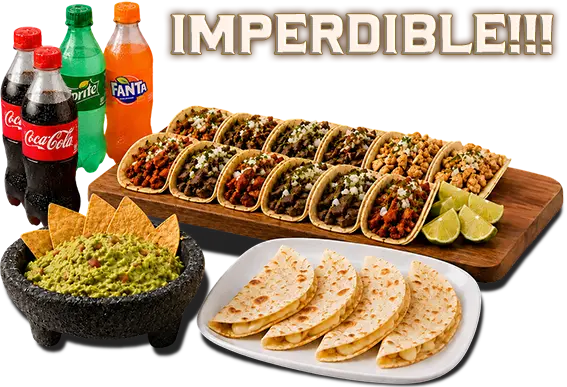
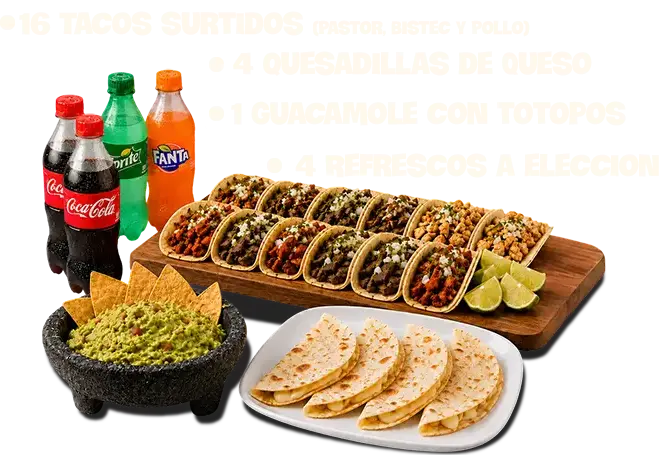
init commit

diff --git a/css/styles.css b/css/styles.css
@@ -68,26 +68,6 @@ body {
     flex-shrink: 0;
     object-fit: contain;
     filter: drop-shadow(0 2px 4px rgba(0, 0, 0, 0.3));
-    animation: logo 2000ms ease infinite;
-    will-change: transform;
-}
-
-@keyframes logo {
-    10% {
-        transform: scale(1.05) rotate(5deg);
-    }
-
-    20% {
-        transform: scale(1.05) rotate(-5deg);
-    }
-
-    30% {
-        transform: scale(1.05) rotate(5deg);
-    }
-
-    40% {
-        transform: none;
-    }
 }
 
 .header__info {
@@ -350,7 +330,7 @@ body {
 }
 
 .menu__titulo {
-    font-size: 0.82rem;
+    font-size: 0.9rem;
     font-weight: 800;
     color: #e8e8e8;
     white-space: nowrap;

diff --git a/js/script.js b/js/script.js
@@ -1,5 +1,5 @@
 var menuData = {
-    categorias: ['Promociones', 'Tacos', 'Tortas', 'Quesadillas', 'Antojitos', 'Sopas y Caldos', 'Botanas / Para Compartir', 'Guarniciones', 'Postres', 'Bebidas sin Alcohol', 'Bebidas con Alcohol'],
+    categorias: ['Promociones', 'Tacos', 'Tortas', 'Quesadillas', 'Antojitos', 'Sopas y Caldos', 'Botanas / Compartir', 'Guarniciones', 'Postres', 'Bebidas sin Alcohol', 'Bebidas con Alcohol'],
     productos: {
         Promociones: [
             {
@@ -214,7 +214,7 @@ var menuData = {
                 imagen: 'assets/mx/sopas-y-caldos/sopa-de-fideo.webp'
             }
         ],
-        'Botanas / Para Compartir': [
+        'Botanas / Compartir': [
             {
                 nombre: 'Guacamole con Totopos',
                 descripcion: 'Aguacate machacado con jitomate, cebolla, cilantro y chile, acompañado con totopos crujientes de maíz.',